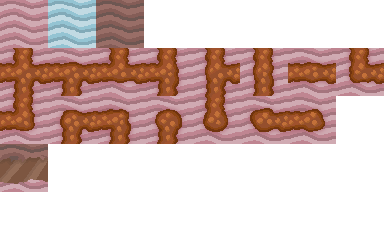
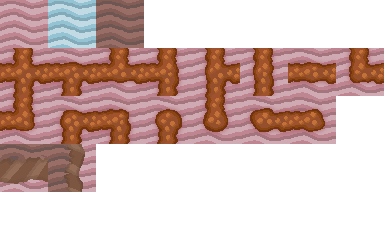
Added new tile

Changed region(s): [[0.125, 0.5833, 0.25, 0.8167]]

diff --git a/src/tile_image_loader.py b/src/tile_image_loader.py
@@ -29,13 +29,14 @@ path_14 = (240, 96, 48, 48)
 path_15 = (288, 96, 48, 48)
 dark_ground = (96, 0, 48, 48)
 wall_1 = (0, 144, 48, 48)
+wall_2 = (48, 144, 48, 48)
 
 tiles = [generic_ground, water, path_1,
          path_2, path_3, path_4, path_5,
          path_6, path_7, path_8, path_9,
          path_10, path_11, path_12,
          path_13, path_14, path_15,
-         dark_ground, wall_1]
+         dark_ground, wall_1, wall_2]
 images = []
 
 sprite_sheet = None

diff --git a/src/map_generator.py b/src/map_generator.py
@@ -30,7 +30,8 @@ tile_colors = {15724527: "00",
                6776679: "15",
                7303023: "16",
                15198183: "17",
-               7829367: "18"}
+               7829367: "18",
+               8355711: "19"}
 
 
 def generate_map(blueprint):
